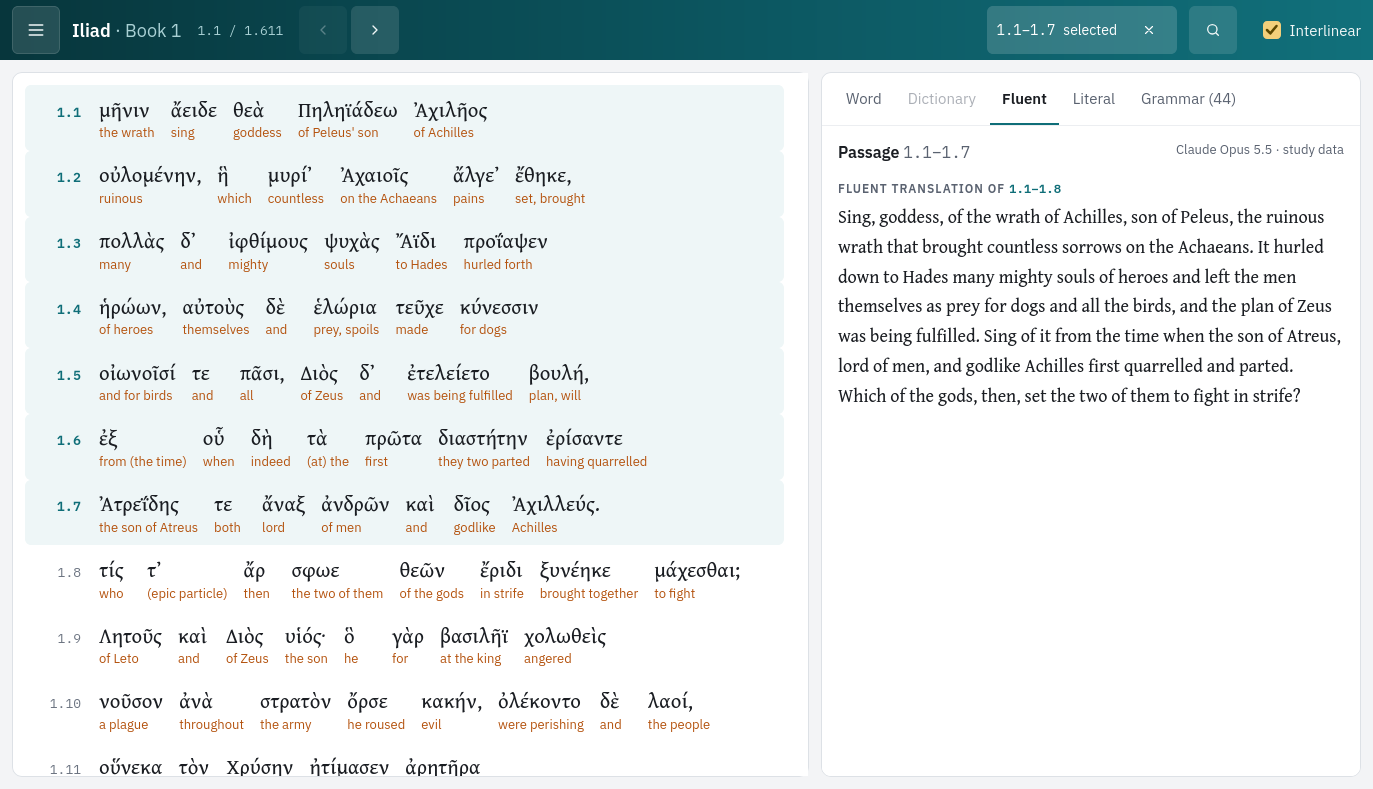
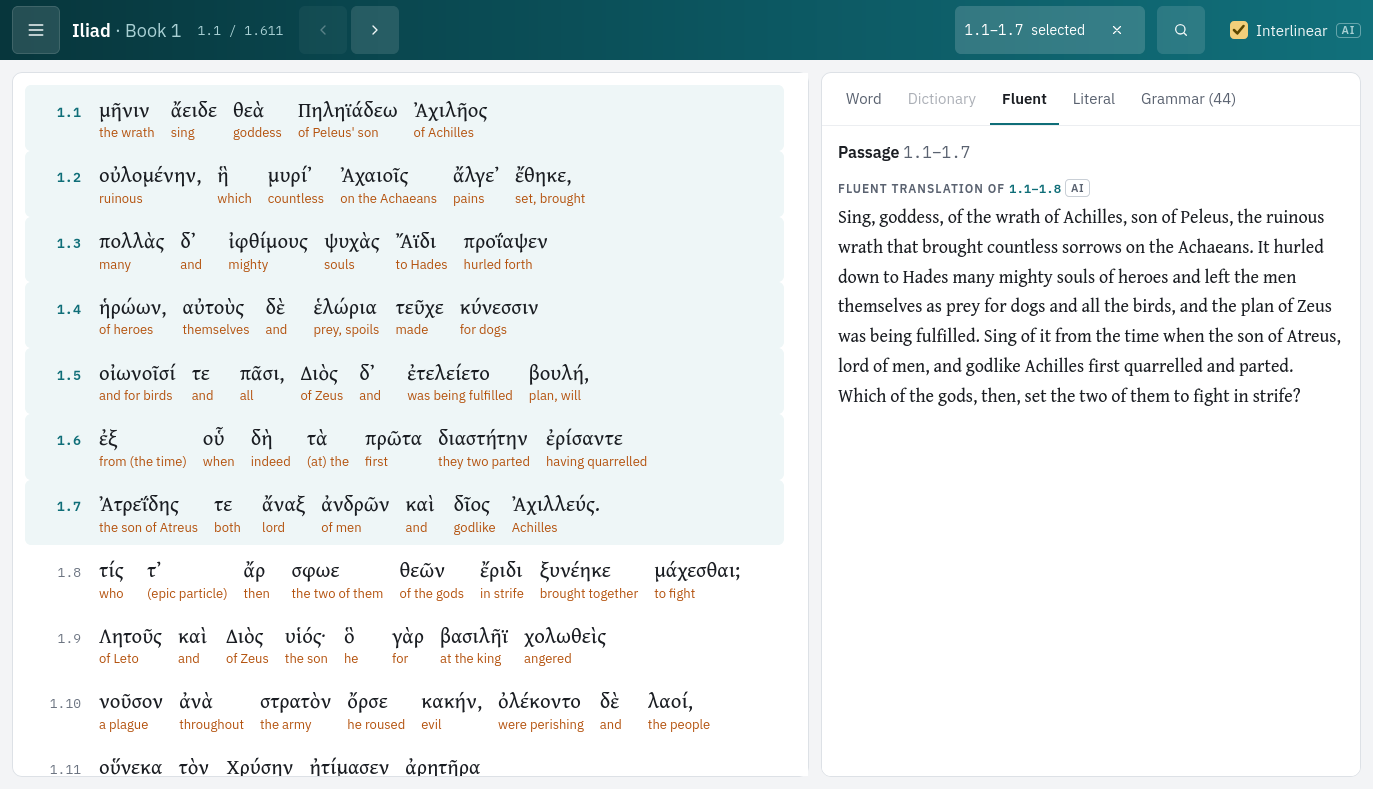
The docs match the code before launch; the README's screens show the source tags
The README's four screenshots were from the first commit: they had the old
"study data" credits, and the Library's Contents button and its old key.
Retaken on a copy of the database: the Library, the iPad and the phone in
the same states, and the laptop with μῆνιν clicked, so the word pane's AI,
Perseus and LSJ tags show beside the Fluent translation's AI.

Each doc checked against the code:
- README and docs/data.md: the prompts are built in greek/api/study.py,
  uses.py, forms.py and parts.py from each work's profile in works.py; the
  README gives About's email for reports beside the issues.
- docs/cli.md: Herodotus is text 16, not 14 (and in import-treebank's
  help); `delete --yes`; the version line is on About too.
- docs/reader.md: the contents page is no longer linked from the Library;
  a split book's later parts are indexed at the pager's URLs.
- ARCHITECTURE.md: the layers table names the treebank and LSJ code,
  postag.py, syntax.py, templates_config.py and the routes; pagehide, old
  page= links, the iPad's tap targets and a book page's size as they are.
- deploy/README.md: what greek.db.previous holds, --restore, the lock's
  15 minutes, tunnel.sh before the first publish, a rollback's public
  copy, pi_setup.sh deleting the key, and a complete "Removing it".
- CLI help and comments no longer mention the removed Verbs page; About's
  privacy sentence names everything the browser keeps.

Claude-Session: https://claude.ai/code/session_01NmNLHTefNA6b521wN1hoHu

Changed region(s): [[0.673, 0.0, 1.0, 0.0913], [0.8565, 0.1825, 0.9789, 0.2129], [0.7647, 0.2129, 0.7953, 0.2433]]

diff --git a/greek/web/templates/about.html b/greek/web/templates/about.html
@@ -67,7 +67,7 @@
     <h2 id="about-code">Code and data</h2>
     <p>The reader is free software under the MIT licence: <a href="{{ repository }}">{{ repository | replace("https://", "") }}</a>. Its database, with the texts, treebanks, dictionary and study data, is published there as a <a href="{{ repository }}/releases">release</a>, to run the reader on your own computer.</p>
     <p>This is a hobby project. Reports of mistakes in the glosses, notes and translations are welcome, with the book and line, as <a href="{{ repository }}/issues">issues</a> on GitHub or by email to <a href="mailto:{{ contact }}">{{ contact }}</a>; there is no promise of a reply or of new features.</p>
-    <p>The site reaches you through Cloudflare, which, like any web host, sees your address and the pages you open. The server keeps nothing about you. Where you stopped reading each text, the passage tab you last chose and the Interlinear setting stay in this browser.</p>
+    <p>The site reaches you through Cloudflare, which, like any web host, sees your address and the pages you open. The server keeps nothing about you. Where you stopped reading each text, your choices in the passage box (its tab, Grammar's view, whether it is expanded) and the Interlinear setting stay in this browser.</p>
   </section>
 
   {{ m.version_line() }}

diff --git a/greek/cli/study_cmd.py b/greek/cli/study_cmd.py
@@ -226,7 +226,7 @@ def import_treebank_cmd(text_id, work, file_, refresh, list_missing, nodes_only)
     Example:
       greek study import-treebank 12 --work iliad
       greek study import-treebank 12 --nodes-only
-      greek study import-treebank 14 --work herodotus
+      greek study import-treebank 16 --work herodotus
     """
     conn = get_connection()
     text = get_text(conn, text_id)
@@ -1695,10 +1695,10 @@ def parts_cmd():
     \b
     The verbs are the treebank lemmas tagged as verbs, 20 to a request. The
     parts are saved in the work's dialect (Homeric for the Iliad and the
-    Odyssey, Ionic for Herodotus, Attic for Thucydides), beside the Verbs
-    page's lookups, and the reader's word pane shows them. Only `submit --yes`
-    spends money; run `estimate` (or `submit` without --yes) and approve the
-    estimate first. Follow a batch with `greek study batch status | collect`.
+    Odyssey, Ionic for Herodotus, Attic for Thucydides), and the reader's
+    word pane shows them. Only `submit --yes` spends money; run `estimate`
+    (or `submit` without --yes) and approve the estimate first. Follow a
+    batch with `greek study batch status | collect`.
 
     \b
     Example:

diff --git a/greek/api/parts.py b/greek/api/parts.py
@@ -2,7 +2,7 @@
 Message Batches requests for the principal parts of a treebank text's verbs,
 from Claude Opus 5.5: one request per group of verbs (treebank lemmas), with
 the work's prompt (greek/api/works.py). The results are stored in verb_parts
-under the work's dialect, beside the Verbs page's lookups. This module
+under the work's dialect. This module
 builds the requests and reads their results; `greek study parts` submits them
 and `greek study batch collect` stores them (greek/cli/study_cmd.py).
 """
@@ -30,7 +30,7 @@ VERBS_PER_REQUEST = 20
 # them: about 170 for the JSON of six parts, plus thinking at effort medium.
 DEFAULT_OUTPUT_PER_VERB = 350.0
 
-# The names stored with each part, as the Verbs page labels them
+# The names stored with each part, as the word pane labels them
 PART_NAMES = (
     "Present active",
     "Future active",

diff --git a/greek/cli/update_text_cmd.py b/greek/cli/update_text_cmd.py
@@ -74,7 +74,8 @@ def update_text_cmd(text_id, file_, yes):
     \b
     Nothing is changed when the file's references differ from the saved
     text's, or when a changed line has saved data tied to its words:
-    study glosses, notes and translations, use labels or a model's parses. A treebank's parses are replaced by running 'greek study
+    study glosses, notes and translations, use labels or a model's parses.
+    A treebank's parses are replaced by running 'greek study
     import-treebank' again afterwards.
 
     \b

diff --git a/greek/api/works.py b/greek/api/works.py
@@ -17,7 +17,8 @@ from dataclasses import dataclass
 from typing import Mapping, Optional
 
 # The dialects that forms and principal parts are keyed by (lemma_forms and
-# verb_parts), with how the reader names them. A Verbs-page lookup has none ("").
+# verb_parts), with how the reader names them. The old Verbs page's lookups had
+# none (""); migration 020 removed them.
 DIALECTS: Mapping[str, str] = {
     "homeric": "Homeric",
     "ionic": "Ionic",

diff --git a/greek/models/verb.py b/greek/models/verb.py
@@ -6,8 +6,8 @@ from typing import Any, Dict, List
 class VerbParts:
     """
     A verb's six principal parts by one model: from a parts batch, in its
-    work's dialect ("homeric", "ionic", "attic"), or a lookup on the Verbs
-    page, without one ("").
+    work's dialect ("homeric", "ionic", "attic"). The old Verbs page's
+    lookups had none (""); migration 020 removed them.
     """
 
     id: int

diff --git a/ARCHITECTURE.md b/ARCHITECTURE.md
@@ -22,17 +22,19 @@ and its licences in [docs/data.md](docs/data.md).
 | `greek/version.py` | The code's commit (the Docker image's `build.json`, or `.git`) and the database's last migration |
 | `greek/db/repos/` | SQL data access shared by the CLI and web routes |
 | `greek/models/` | Dataclasses representing stored texts, treebank data, study data, and verbs |
-| `greek/api/` | Study batches: each work's prompts (`works.py`), requests and results (`study.py`, `parts.py`, `forms.py`, `uses.py`), and models' display names |
-| `greek/fetch/` | Perseus catalog, downloads, and TEI parsing for poetry and prose |
+| `greek/api/` | Study batches: each work's profile (`works.py`), the prompts, requests and results (`study.py`, `parts.py`, `forms.py`, `uses.py`, with the gloss rule they share in `prompts.py`), and models' display names (`models.py`) |
+| `greek/fetch/` | Perseus catalog, downloads, and TEI parsing for poetry and prose; treebanks (`treebank.py`: download, parsing, alignment with a text, `WORKS`); LSJ (`lsj.py`, with `betacode.py`) |
+| `greek/postag.py`, `greek/syntax.py` | A treebank's 9-character morphology codes read and written; a word's role phrase and a sentence's outline from its dependency tree |
 | `greek/display/` | Rich CLI rendering |
 | `greek/search.py` | Greek normalization, FTS query construction, and match highlighting |
 | `greek/web/app.py` | Load `.env`, apply migrations at import (or, for a database newer than the code or read-only and behind it, answer every page with why), mount static files with their cache lifetimes, register routers, gzip pages, fragments, CSS and JS (level 6: a book page of about 690 KB is sent as 50–70 KB), add the security headers (a Content-Security-Policy for the app's own files only), and serve `/version`; no API docs; on a read-only database, add the page cache |
 | `greek/web/page_cache.py` | The public site's finished pages in memory, gzipped as sent (64 MB, least recently used out): only on a read-only database, which can't change while the app runs; keyed on the path and query, the Interlinear cookie, the site's scheme and host, and gzip; the private reader caches nothing |
+| `greek/web/routes/` | The Library (`library.py`), About (`about.py`), the reader page, its word fragment, Go to and the contents (`reader.py`), the passage box (`passage.py`) |
 | `greek/web/routes/site.py` | `robots.txt` and `sitemap.xml`: the pages search engines may index, from `page_starts` in `reader_data.py` |
 | `greek/web/deps.py` | Request-scoped database connections |
 | `greek/web/reader_data.py`, `reading.py`, `formatting.py` | Prepare reader views, paginate books, map saved words to tokens, and format display values |
 | `deploy/`, `.github/workflows/deploy.yml` | Tests and a secret scan (gitleaks) on every push, then on `main`, over the tailnet (an ephemeral `tag:ci` node), a pull, rebuild and checks on a Raspberry Pi, for the private reader and the public site on a published copy of the database (`deploy/public/`, `publish.sh`), reached through Cloudflare Tunnel behind a firewall that lets it reach only the internet (`tunnel.sh`, `public/firewall.nft`); `.github/workflows/site-check.yml` checks the site from outside after every deploy and every hour, opening every page in the sitemap, which fills the page cache again after a restart ([deploy/README.md](deploy/README.md)) |
-| `greek/web/templates/`, `static/` | Jinja pages and fragments, HTMX, vanilla reader JS, one app stylesheet, and self-hosted fonts; templates link static files with `static_url`, which adds a content hash (`?v=`) so browsers fetch changed files |
+| `greek/web/templates/`, `static/`, `templates_config.py` | Jinja pages and fragments, HTMX, vanilla reader JS, one app stylesheet, and self-hosted fonts; `templates_config.py` sets up Jinja and its filters, the static files' cache lifetimes, and the site's scheme and host for whole URLs; templates link static files with `static_url`, which adds a content hash (`?v=`) so browsers fetch changed files |
 
 ## Persistence
 
@@ -44,8 +46,8 @@ copies it to `greek-backup-<date>-pre-<migration>.db` and checks the copy, and
 it refuses a database with migrations the code doesn't have
 (`DatabaseNewerThanCode`): the CLI exits with the reason, the web app shows it
 on every page. The last applied migration is the database's version, and the
-git commit is the code's (`greek --version`, `/version`, the Library page and
-the iPad drawer). A database file the process can't write (the public
+git commit is the code's (`greek --version`, `/version`, the Library and
+About pages and the reader's drawer). A database file the process can't write (the public
 site's published copy, on a read-only mount) is opened read-only and read in
 place, without WAL; if it lacks some of the code's migrations,
 `run_migrations()` leaves it alone (`DatabaseNeedsMigrations`) and the web
@@ -168,21 +170,22 @@ events; the click a swipe ends with is swallowed), or Escape closes it and
 lets go of the word and the selection, so nothing is selected while it is
 closed; a page opened with `lines=` opens with it. There the Greek keeps its
 natural spacing, and a word's or line number's target reaches into the space
-around it (a pseudo-element) instead of the iPad's 44px boxes.
+around it (a pseudo-element) instead of the iPad's finger-sized boxes (a word
+at least 44px wide and 48px high, a line number 48px high).
 
 A page is a whole book; a book longer than 40,000 characters is split into
 parts at chapter starts (`greek/web/reading.py`). Opening a page scrolls the
 opened line to the top and records it as the text's reading position. The
 position then follows the scroll: `reader.js` shows the top line in the
 toolbar and, a second after scrolling stops, puts it in the URL's `at=`
-(`replaceState`) and saves it, and again on `pagehide`. Reading positions
+(`replaceState`) and saves it; `pagehide` saves it once more. Reading positions
 are this browser's: `positions.js` keeps one per text in `localStorage`
 (`greek.position.<text id>`), turns the Library's **Start reading** into
 **Continue at …** and points the drawer's text links there; a reader URL
-without `at=`, `lines=` or `q=` opens at the start, and `reader.js` then
+without `at=`, `lines=`, `q=` or an old `page=` opens at the start, and `reader.js` then
 replaces it with the saved place. Without storage the reader works and
 always starts at the beginning. The reader opts out of htmx's history snapshots
-(`hx-history="false"`): a book is about a million characters, so Back loads
+(`hx-history="false"`): a book page is up to about a million characters, so Back loads
 the page again at the `at=` of the entry it returns to.
 
 Selecting lines fetches `/texts/{id}/passage`; clicking a token fetches
@@ -201,8 +204,9 @@ Every route is a GET that reads saved data; the app has no write routes and
 imports no model client, so it needs no API key (tests check both).
 
 On the open internet: `robots.txt` lets search engines index the Library,
-About, each text's contents and each page of its books at the URL the
-Library and the contents open it with (`?at=` its first reference), and no
+About, each text's contents and each page of its books at its first
+reference (`?at=`, the URL the Library, the contents and the pager open it
+with), and no
 other reader URL, fragment or Go to; `sitemap.xml` lists the same pages, and
 a reader page names its page's start as its canonical URL. Whole URLs take
 the host asked for and the scheme from `X-Forwarded-Proto` (Cloudflare's

diff --git a/deploy/README.md b/deploy/README.md
@@ -2,7 +2,7 @@
 
 This is how the reader is deployed to a Raspberry Pi in Docker, reachable
 only over [Tailscale](https://tailscale.com): GitHub Actions deploys every
-commit on `main` over the tailnet once the tests and the secret scan pass.
+push to `main` over the tailnet once the tests and the secret scan pass.
 Beside it the same image can serve a public site on a published copy of the database
 ([The public site](#the-public-site)), reached through Cloudflare Tunnel. Change the names
 (user, folders, ports) to suit your own machine. Replace `PI` below with
@@ -94,7 +94,8 @@ github.com or `gh`, `[TAILSCALE]` the Tailscale admin console.
    ```
    It creates `greekreader`, `/opt/ancient-greek-reader/{app,data}` and
    `/etc/sudoers.d/gha-deploy-ancient-greek-reader`, and adds the key to
-   `gha-deploy`'s `authorized_keys`, locked to the deploy command. A re-run
+   `gha-deploy`'s `authorized_keys`, locked to the deploy command, and
+   deletes the copy in `/tmp`. A re-run (copy the key over again first)
    locks the key again instead of adding a copy.
 3. `[GITHUB]` Set the secrets (`PI_HOST` is the Pi's tailnet address,
    `100.x.y.z`):
@@ -166,9 +167,11 @@ first and on the public site when you publish it.
 
 - `/opt/ancient-greek-reader/public/` (root's) holds it: `site/greek.db`, the
   published copy (read-only, owned by the system user `greekpublic`, which
-  can't log in); `greek.db.previous`, the copy the last publish replaced;
+  can't log in); `greek.db.previous`, the copy the last swap replaced (a
+  publish, a `--restore`, or a deploy that migrated the published copy);
   `releases/data-YYYY-MM-DD/`, the last three exports, the same files as a
-  data release; `incoming/`, where a new copy is checked; `compose.env`, the
+  data release; `incoming/`, where a new copy is checked (one that failed
+  its checks is kept there as `greek.db.failed`); `compose.env`, the
   settings compose reads, which the scripts write; and from the tunnel's
   setup `tunnel.env` (its token, root's only), or `tunnel.env.off` while
   the tunnel is off ([The tunnel](#the-tunnel)).
@@ -214,10 +217,14 @@ minutes on a Pi 4), checks the export's checksum and the database it
 decompresses to against its manifest, then checks that copy
 (`integrity_check`, one file with no WAL, this code's last migration). It
 stops the public web app, keeps the copy it replaces as
-`greek.db.previous`, starts the app on the new one and checks it; if a
-check fails, it puts the previous copy back. A deploy and a publish wait for
-each other (`/run/lock/ancient-greek-reader.lock`). `publish.sh --restore`
-puts the previous copy back.
+`greek.db.previous`, starts the app on the new one and checks it; if the
+site then fails its checks, it puts the previous copy back. If the tunnel's
+walls fail their check ([The tunnel](#the-tunnel)), it stops there, with the
+new copy in place and the site stopped. A deploy, a publish and `tunnel.sh
+on` or `off` wait for each other (`/run/lock/ancient-greek-reader.lock`), up
+to 15 minutes. `publish.sh --restore` puts `greek.db.previous` back and keeps
+the copy it replaces in its place; it refuses one that lacks this code's
+migrations (publish again instead).
 
 ```bash
 sudo docker compose --env-file /opt/ancient-greek-reader/public/compose.env \
@@ -273,7 +280,8 @@ below may differ):
 3. `[CLOUDFLARE]` For the domain: SSL/TLS, Edge Certificates, Always Use
    HTTPS on; and the setting that blocks AI crawlers (Security, Bots).
    Leave Bot Fight Mode off: it would challenge the outside check.
-4. `[PI]` Save the token and start the tunnel:
+4. `[PI]` After the first publish (`tunnel.sh` refuses before it), save the
+   token and start the tunnel:
    ```bash
    ssh -t PI sudo /opt/ancient-greek-reader/app/deploy/tunnel.sh on
    ```
@@ -290,7 +298,8 @@ below may differ):
    on, and `http://` sent on to `https://`. After a restart this fills the page cache again (a few
    minutes for the Pi); other runs take a minute or two. Each check is tried
    three times, 20 seconds apart. GitHub
-   emails a failed run to whoever last changed its schedule.
+   emails a failed scheduled run to whoever last changed its schedule, and a
+   failed run after a deploy to whoever set the deploy off.
    ```bash
    gh variable set PUBLIC_SITE_URL --body https://reader.example
    gh secret set CF_ACCESS_CLIENT_ID --body <client ID>
@@ -314,17 +323,26 @@ A reverted migration can't be undone that way: the app then refuses the
 newer database. Put back the copy made before it
 (`data/greek-backup-<date>-pre-<migration>.db`): stop the app, replace
 `greek.db` (and remove `greek.db-wal` and `greek.db-shm`), and start it
-again.
+again. The public site's copy was migrated too, and a deploy stops at it
+until it is put back: `publish.sh --restore` returns the copy from before
+that deploy (its `greek.db.previous`), or publish again.
 
 ## Removing it
+
+First copy `data/greek.db` off the Pi (`greek backup -`, above, while the
+app still runs), and turn deploys and the outside check off:
+`gh variable set PI_DEPLOY_ENABLED --body false` and `gh variable delete
+PUBLIC_SITE_URL` (otherwise the check fails, and emails, every hour). Then
+on the Pi (the firewall's three lines only if the tunnel was ever on):
 
 ```bash
 sudo /opt/ancient-greek-reader/app/deploy/tunnel.sh off
 sudo docker compose --env-file /opt/ancient-greek-reader/public/compose.env \
-  -f /opt/ancient-greek-reader/app/deploy/public/docker-compose.yml down
+  -f /opt/ancient-greek-reader/app/deploy/public/docker-compose.yml down --rmi all
 sudo systemctl disable --now greek-public-firewall.service
 sudo rm -rf /etc/systemd/system/greek-public-firewall.service /etc/ancient-greek-reader
 sudo nft delete table inet greek_public
+sudo systemctl daemon-reload
 sudo docker compose -f /opt/ancient-greek-reader/app/docker-compose.yml down --rmi all
 sudo tailscale serve --https=8443 off
 sudo rm -rf /opt/ancient-greek-reader /etc/sudoers.d/gha-deploy-ancient-greek-reader
@@ -332,6 +350,8 @@ sudo userdel -r greekreader
 sudo userdel greekpublic
 ```
 
-and remove the key's line from `/home/gha-deploy/.ssh/authorized_keys`.
-Copy `data/greek.db` off the Pi first (`greek backup -`, above). In
-Cloudflare, delete the tunnel and its Access application.
+and remove the key's line from `/home/gha-deploy/.ssh/authorized_keys` (and
+the `gha-deploy` user, if no other app deploys with it). Delete the
+repository's deploy secrets (step 3, and step 5's), and in Tailscale the
+trust credential and `tag:ci`'s grant. In Cloudflare, delete the tunnel and
+its Access application.

diff --git a/README.md b/README.md
@@ -5,7 +5,7 @@ Herodotus and Thucydides, with every word's parsing, its role in the
 sentence and its dictionary entry, and, in the books that have them, a
 gloss and a note on every word and translations of every line.
 
-![The Iliad's first lines with glosses under each word, and the passage's fluent translation beside them](docs/screens/reader-laptop.png)
+![The Iliad's first lines with glosses under each word; beside them the word μῆνιν, its parsing, LSJ's entry and a note, and the passage's fluent translation, each tagged with its source](docs/screens/reader-laptop.png)
 
 The reader only reads saved data: it asks no model anything, needs no
 account, and keeps nothing about you on the server (where you stopped
@@ -98,8 +98,9 @@ word, a literal translation of each line, a fluent translation of the
 passage, and a remark wherever the model disagreed with the treebank. Use
 labels, dictionary forms, verb constructions and principal parts were made
 the same way. Answers are checked when they are collected, and missing ones
-asked again. The prompts are in [greek/api/works.py](greek/api/works.py);
-[docs/data.md](docs/data.md) has the details.
+asked again. The prompts are in [greek/api/](greek/api/) (`study.py`, `uses.py`,
+`forms.py` and `parts.py`), made for each work from its profile in
+[works.py](greek/api/works.py); [docs/data.md](docs/data.md) has the details.
 
 ## Sources and credits
 
@@ -137,7 +138,8 @@ asked again. The prompts are in [greek/api/works.py](greek/api/works.py);
 The reader is a hobby project, kept up as time allows. If a gloss, a note
 or a translation is wrong, please
 [open an issue](https://github.com/Kenaldo9/ancient-greek-reader/issues/new/choose)
-with the book and line. There is no promise of a reply or of new features.
+or email [greek@kenaldo.dev](mailto:greek@kenaldo.dev), with the book and
+line. There is no promise of a reply or of new features.
 
 ## Development
 

diff --git a/docs/reader.md b/docs/reader.md
@@ -19,10 +19,11 @@ drawer) says what each text has, where its data comes from, the licences,
 where to report a mistake, and what a visitor's browser keeps.
 The
 reading position is saved per text in the browser (`localStorage`), so each
-device keeps its own; nothing is saved on the server. Book links and the TOC
-open the book at its start. The bottom of the Library page (and of the iPad
-drawer) shows which code is running and which database it uses (see
-[Versions](cli.md#versions)).
+device keeps its own; nothing is saved on the server. Book links (the
+Library's chips, the drawer's, and a text's contents page at
+`/texts/{id}/toc`) open the book at its start. The bottom of the Library and
+About pages (and of the reader's drawer) shows which code is running and
+which database it uses (see [Versions](cli.md#versions)).
 
 The reader shows a whole book that you scroll through; a prose book longer than
 40,000 characters is split into parts that start at a chapter. **Continue to
@@ -193,8 +194,9 @@ Every route reads saved data (GET); none writes or calls a model.
 ## On the open internet
 
 - Search engines may index the Library, About, each text's contents and each
-  page of its books, at the URL the Library and the contents open it with
-  (`/texts/12/read?at=2.1`; each part of a long book has its own).
+  page of its books, at its first reference, the URL the Library, the
+  contents and the pager open it with (`/texts/12/read?at=2.1`; each part of
+  a long book has its own).
   `robots.txt` allows exactly those, and keeps crawlers out of the word,
   passage and search fragments, Go to, and reader URLs opened partway or
   with other settings; `sitemap.xml` lists the same pages. A reader page

diff --git a/docs/data.md b/docs/data.md
@@ -14,7 +14,7 @@ repository (tag `data-YYYY-MM-DD`), not in git:
 |---|---|
 | `greek.db.xz` | The database, compressed with xz (about 33 MB; 195 MB as `greek.db`) |
 | `SHA256SUMS` | Its checksum: `sha256sum -c SHA256SUMS` |
-| `manifest.json` | Its last migration, the code's commit it was exported with, each text (its treebank and licence, its books with translations), and the rows in each table |
+| `manifest.json` | Its last migration, the code's commit it was exported with, each text (its treebank and licence, its books with translations), the rows in each table, and the rows emptied |
 | `DATA-LICENSE.md` | The licences |
 
 [greek export-data](cli.md#greek-export-data) makes these files. A release
@@ -77,8 +77,9 @@ itself asks no model anything.
   It answers with a gloss and a note on every word, a literal
   translation of every line, a fluent translation of the unit, and a remark
   wherever it disagrees with the treebank's parse. Each work has its own
-  prompts, in `greek/api/works.py` (verse for Homer, prose for Herodotus and
-  Thucydides).
+  prompts (verse for Homer, prose for Herodotus and Thucydides), made from
+  its profile in `greek/api/works.py` by `greek/api/study.py`, `uses.py`,
+  `forms.py` and `parts.py`.
 - **Checks.** Answers are checked when a batch is collected: every word,
   line and unit must be answered, and a unit that fails is asked again (with
   `--repeat-words`, each word's answer must repeat its word, so a skipped

diff --git a/docs/cli.md b/docs/cli.md
@@ -248,6 +248,12 @@ underlying `.txt` file. Prompts for confirmation.
 |----------|-------------|
 | `TEXT_ID` | Integer ID of the text to delete |
 
+#### Options
+
+| Flag | Type | Default | Description |
+|------|------|---------|-------------|
+| `--yes` | flag | off | Delete without asking |
+
 #### Examples
 
 ```
@@ -284,7 +290,7 @@ which share them; Ionic for Herodotus; Attic for Thucydides). Only `submit
 #### Examples
 
 ```bash
-greek study import-treebank 14 --work herodotus
+greek study import-treebank 16 --work herodotus
 greek study forms estimate 12 --books 2-7
 greek study uses submit 12 --books 2-7 --effort high --yes
 greek study batch status
@@ -430,6 +436,6 @@ database  020_reading_app (/data/greek.db)
 A checkout reads its commit from `.git` (uncommitted changes aren't shown); the
 Docker image records it when it is built, with the build time. The database
 line also says when the next start will apply migrations, or when the database
-is newer than the code. The same appears at the bottom of the Library page and
-the iPad drawer (`Code 1a2b3c4 · built 16 Oct 2026 10:49 · Database 020`), and
-as JSON at `/version`.
+is newer than the code. The same appears at the bottom of the Library and
+About pages and the reader's drawer (`Code 1a2b3c4 · built 16 Oct 2026 10:49 ·
+Database 020`), and as JSON at `/version`.
